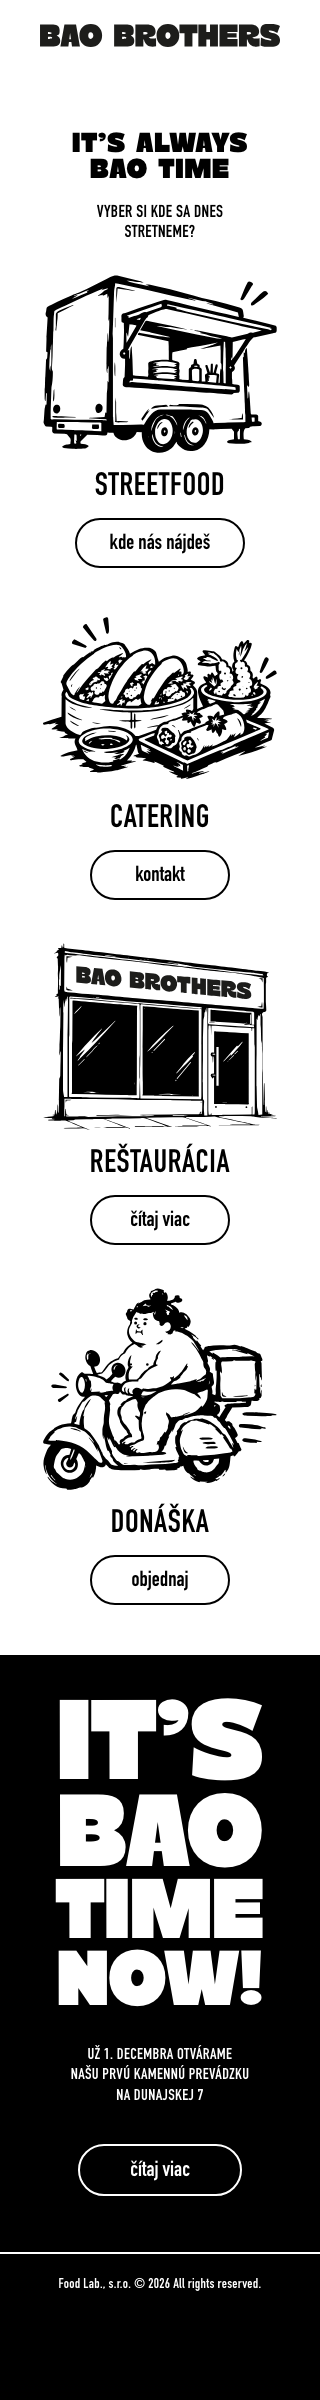
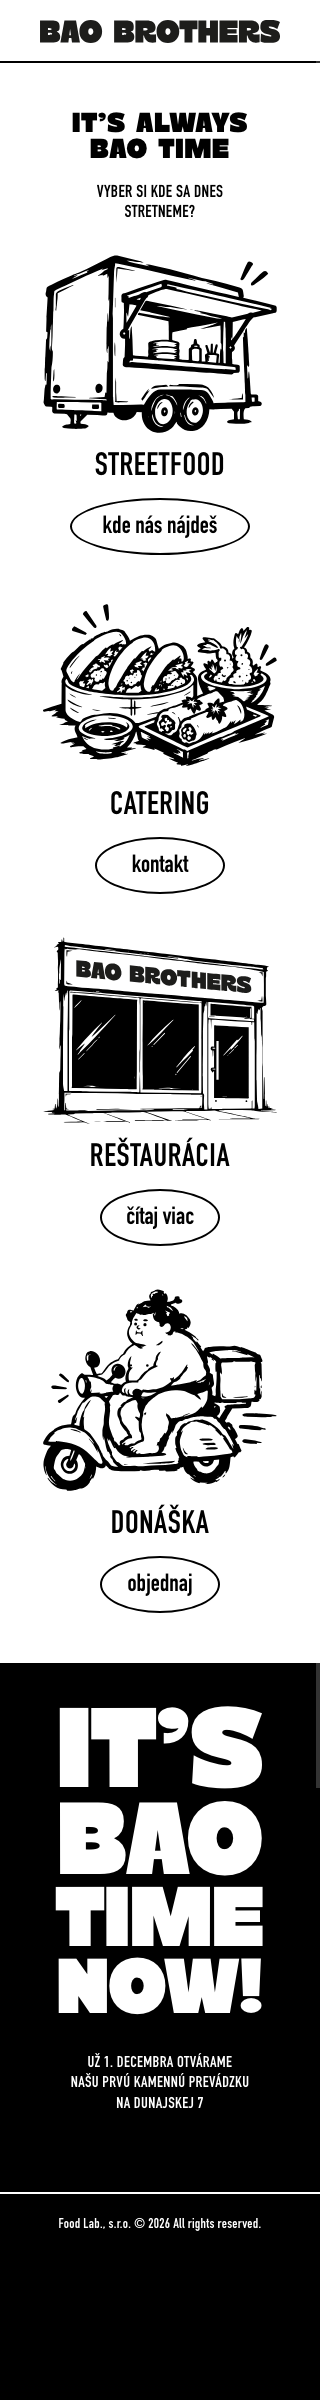
Show header divider line on mobile and match button design to desktop

Changed region(s): [[0.0, 0.0, 1.0, 0.9688], [0.2188, 0.9062, 0.3125, 0.9688]]

diff --git a/css/style.css b/css/style.css
@@ -493,27 +493,54 @@ html, body {
     position: static;
     padding: 0 20px;
   }
-  .brand-logo-link, .header-divider, .hero-headline, .hero-subheadline,
-  .dark-headline, .announcement-text, .dark-btn-wrapper, .copyright-text,
-  .card-streetfood .illustration-link, .card-streetfood .service-title, .card-streetfood .btn-streetfood,
-  .card-catering .illustration-link, .card-catering .service-title, .card-catering .btn-catering,
-  .card-restauracia .illustration-link, .card-restauracia .service-title, .card-restauracia .btn-restauracia,
-  .card-donaska .illustration-link, .card-donaska .service-title, .card-donaska .btn-donaska {
+  .brand-logo-link, .hero-headline, .hero-subheadline,
+  .dark-headline, .announcement-text, .copyright-text,
+  .card-streetfood .illustration-link, .card-streetfood .service-title,
+  .card-catering .illustration-link, .card-catering .service-title,
+  .card-restauracia .illustration-link, .card-restauracia .service-title,
+  .card-donaska .illustration-link, .card-donaska .service-title {
     position: static;
     transform: none;
     width: auto;
     margin: 0 auto;
   }
+  .card-streetfood .btn-streetfood,
+  .card-catering .btn-catering,
+  .card-restauracia .btn-restauracia,
+  .card-donaska .btn-donaska {
+    position: static !important;
+    transform: none !important;
+    margin: 0 auto !important;
+    display: inline-flex !important;
+  }
   .site-header {
-    padding: 30px 16px 0 16px;
+    height: auto;
+    padding: 24px 0 0 0;
+    display: flex;
+    flex-direction: column;
+    align-items: center;
+    position: relative;
+    width: 100%;
+  }
+  .header-inner {
+    width: 100%;
+    padding: 0 16px;
+    display: flex;
+    justify-content: center;
+    align-items: center;
+    margin: 0 auto;
   }
   .brand-logo {
     width: 320px;
     height: auto;
   }
   .header-divider {
-    margin-top: 18px;
-    position: static;
+    width: 100% !important;
+    height: 2px !important;
+    background-color: var(--color-black) !important;
+    margin-top: 20px !important;
+    position: static !important;
+    display: block !important;
   }
   .section-light {
     padding-top: 50px;
@@ -576,20 +603,38 @@ html, body {
     width: 100% !important;
   }
   .bao-btn {
-    min-width: 140px;
-    height: 50px !important;
-    font-size: 21.5px !important;
-    padding: 3.5px 24px 0 24px;
-    border-radius: 9999px;
     display: inline-flex !important;
     align-items: center !important;
     justify-content: center !important;
     text-align: center !important;
     margin: 0 auto !important;
+    border-radius: 50% !important;
+    font-size: 24.5px !important;
+    padding: 4px 10px 0 10px !important;
   }
-  .btn-streetfood {
-    min-width: 170px;
+  .card-streetfood .btn-streetfood {
+    width: 180px !important;
+    height: 57px !important;
     margin: 0 auto !important;
+    display: inline-flex !important;
+  }
+  .card-catering .btn-catering {
+    width: 130px !important;
+    height: 57px !important;
+    margin: 0 auto !important;
+    display: inline-flex !important;
+  }
+  .card-restauracia .btn-restauracia {
+    width: 120px !important;
+    height: 57px !important;
+    margin: 0 auto !important;
+    display: inline-flex !important;
+  }
+  .card-donaska .btn-donaska {
+    width: 120px !important;
+    height: 57px !important;
+    margin: 0 auto !important;
+    display: inline-flex !important;
   }
   .section-dark {
     padding-top: 50px;
@@ -628,10 +673,17 @@ html, body {
   .dark-btn-wrapper {
     display: flex;
     justify-content: center;
+    align-items: center;
+    width: 100%;
+    margin: 0 auto;
   }
   .bao-btn-white {
-    min-width: 160px;
-    height: 60px !important;
+    width: 164px !important;
+    height: 68px !important;
+    border-radius: 50% !important;
+    font-size: 24.5px !important;
+    padding: 4px 10px 0 10px !important;
+    margin: 0 auto !important;
   }
   .footer-divider {
     position: static;
@@ -649,18 +701,35 @@ html, body {
 @media (max-width: 680px) {
   .site-header {
     height: auto;
-    padding: 24px 16px 16px 16px;
+    padding: 20px 0 0 0 !important;
     display: flex;
     flex-direction: column;
     align-items: center;
     justify-content: center;
     text-align: center;
+    position: relative;
+    width: 100%;
+  }
+  .header-inner {
+    padding: 0 16px;
+    width: 100%;
+    display: flex;
+    justify-content: center;
+    align-items: center;
   }
   .brand-logo {
     width: 240px;
     max-width: 80vw;
     margin: 0 auto;
     display: block;
+  }
+  .header-divider {
+    width: 100% !important;
+    height: 2px !important;
+    background-color: var(--color-black) !important;
+    margin-top: 18px !important;
+    display: block !important;
+    position: static !important;
   }
   .hero-headline {
     font-size: clamp(28px, 8.5vw, 44px);
@@ -720,13 +789,31 @@ html, body {
     justify-content: center !important;
     text-align: center !important;
     margin: 0 auto !important;
-    font-size: 21.5px !important;
-    padding: 3.5px 24px 0 24px !important;
+    border-radius: 50% !important;
+    font-size: 24.5px !important;
+    padding: 4px 10px 0 10px !important;
   }
-  .card-streetfood .btn-streetfood,
-  .card-catering .btn-catering,
-  .card-restauracia .btn-restauracia,
+  .card-streetfood .btn-streetfood {
+    width: 180px !important;
+    height: 57px !important;
+    margin: 0 auto !important;
+    display: inline-flex !important;
+  }
+  .card-catering .btn-catering {
+    width: 130px !important;
+    height: 57px !important;
+    margin: 0 auto !important;
+    display: inline-flex !important;
+  }
+  .card-restauracia .btn-restauracia {
+    width: 120px !important;
+    height: 57px !important;
+    margin: 0 auto !important;
+    display: inline-flex !important;
+  }
   .card-donaska .btn-donaska {
+    width: 120px !important;
+    height: 57px !important;
     margin: 0 auto !important;
     display: inline-flex !important;
   }
@@ -764,9 +851,11 @@ html, body {
     width: 100%;
   }
   .bao-btn-white {
-    min-width: 140px;
-    height: 52px !important;
-    font-size: 21.5px !important;
+    width: 164px !important;
+    height: 68px !important;
+    border-radius: 50% !important;
+    font-size: 24.5px !important;
+    padding: 4px 10px 0 10px !important;
     margin: 0 auto !important;
   }
   .copyright-text {
